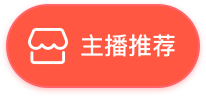
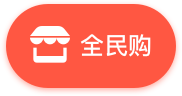
t

Changed region(s): [[0.1099, 0.25, 0.8516, 0.6875], [0.0275, 0.0312, 0.9341, 0.9375], [0.8791, 0.125, 0.989, 0.7188]]

diff --git a/cart/css/cart.css b/cart/css/cart.css
@@ -13,7 +13,7 @@ body {
   margin: 0 auto; }
 
 .store {
-  width: 104px;
+  width: 91px;
   height: 48px;
   position: absolute;
   bottom: 45px;
@@ -71,7 +71,7 @@ body {
     white-space: nowrap;
     text-align: center;
     top: -31px;
-    left: -10px; }
+    left: -16px; }
     .store > .label > .arrow {
       width: 20px;
       height: 7px;

diff --git a/cart/scss/cart.scss b/cart/scss/cart.scss
@@ -21,7 +21,7 @@ body {
 	margin: 0 auto;
 }
 .store {
-	width: 104px;
+	width: 91px;
 	height: 48px;
 	position: absolute;
 	bottom: 45px;
@@ -68,7 +68,7 @@ body {
 		white-space: nowrap;
 		text-align: center;
 		top: -31px;
-		left: -10px;
+		left: -16px;
 		>.arrow {
 			width: 20px;
 			height: 7px;
